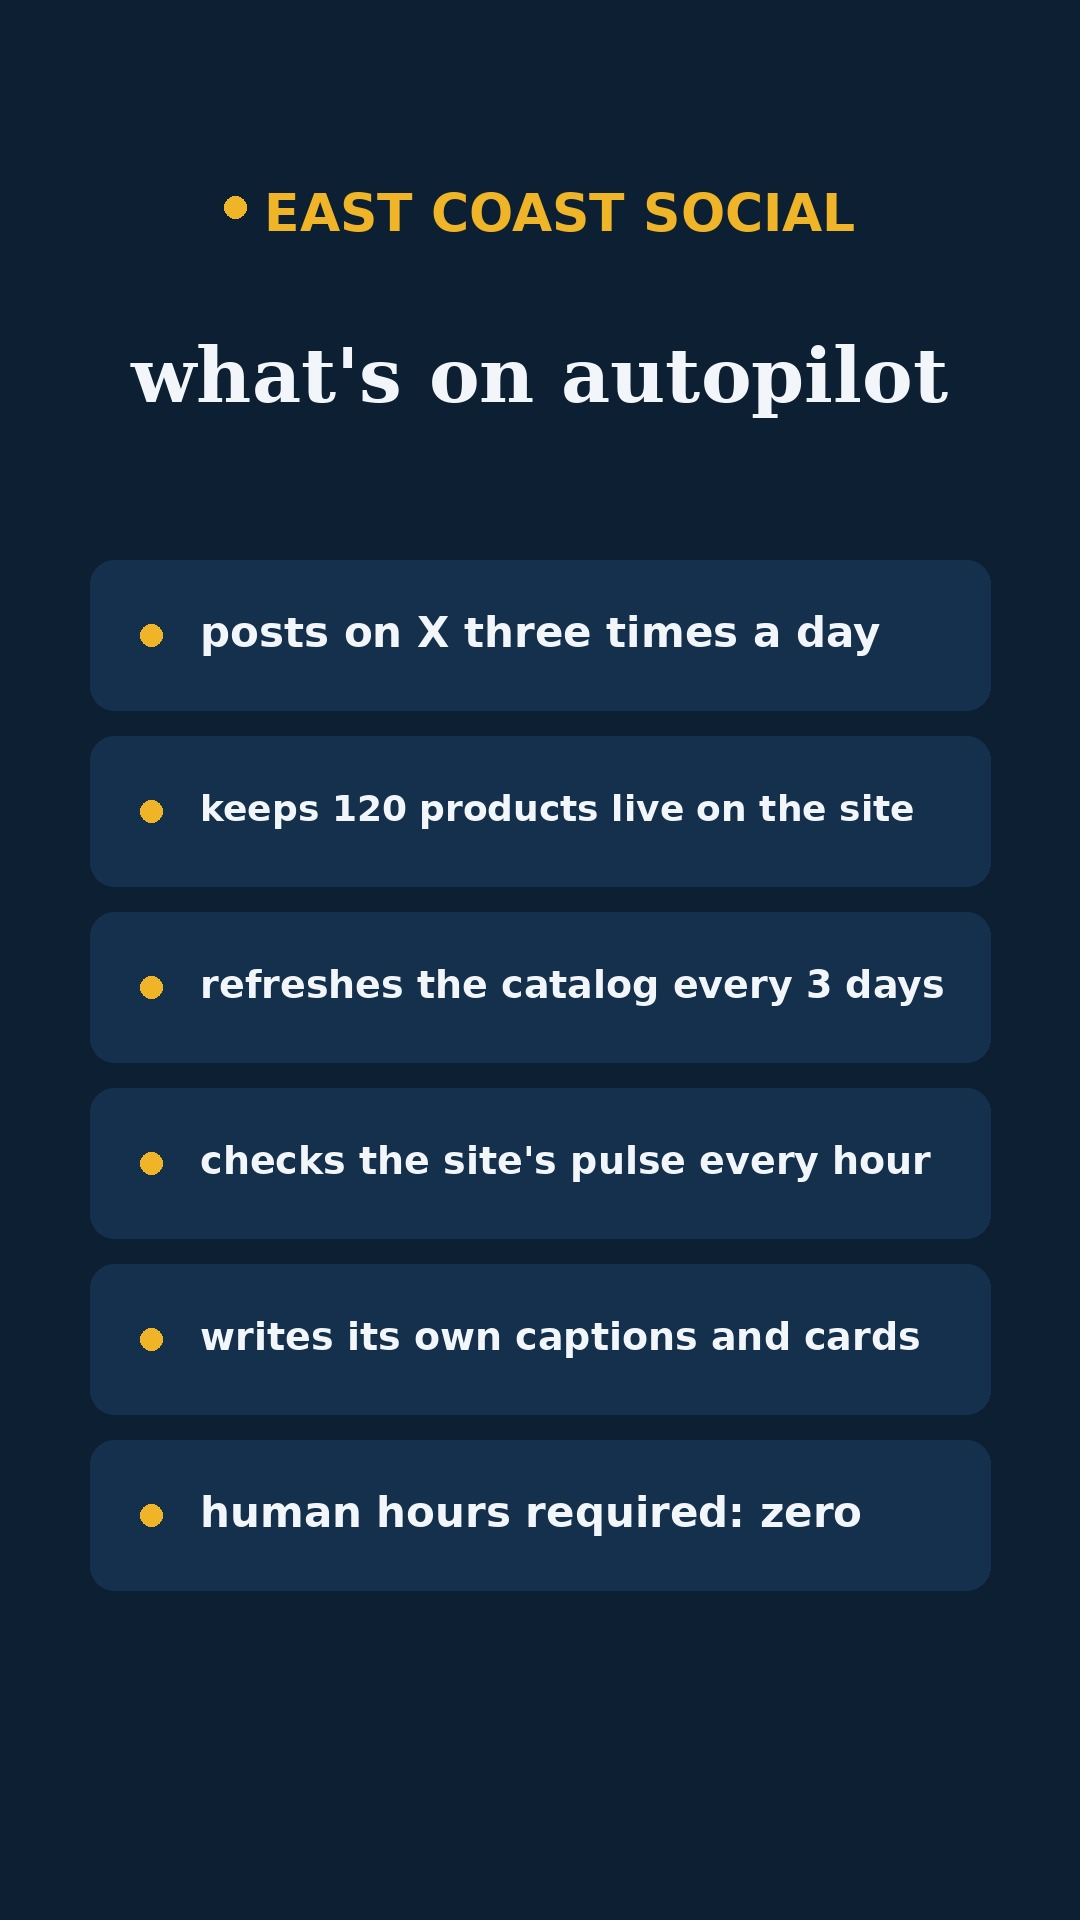
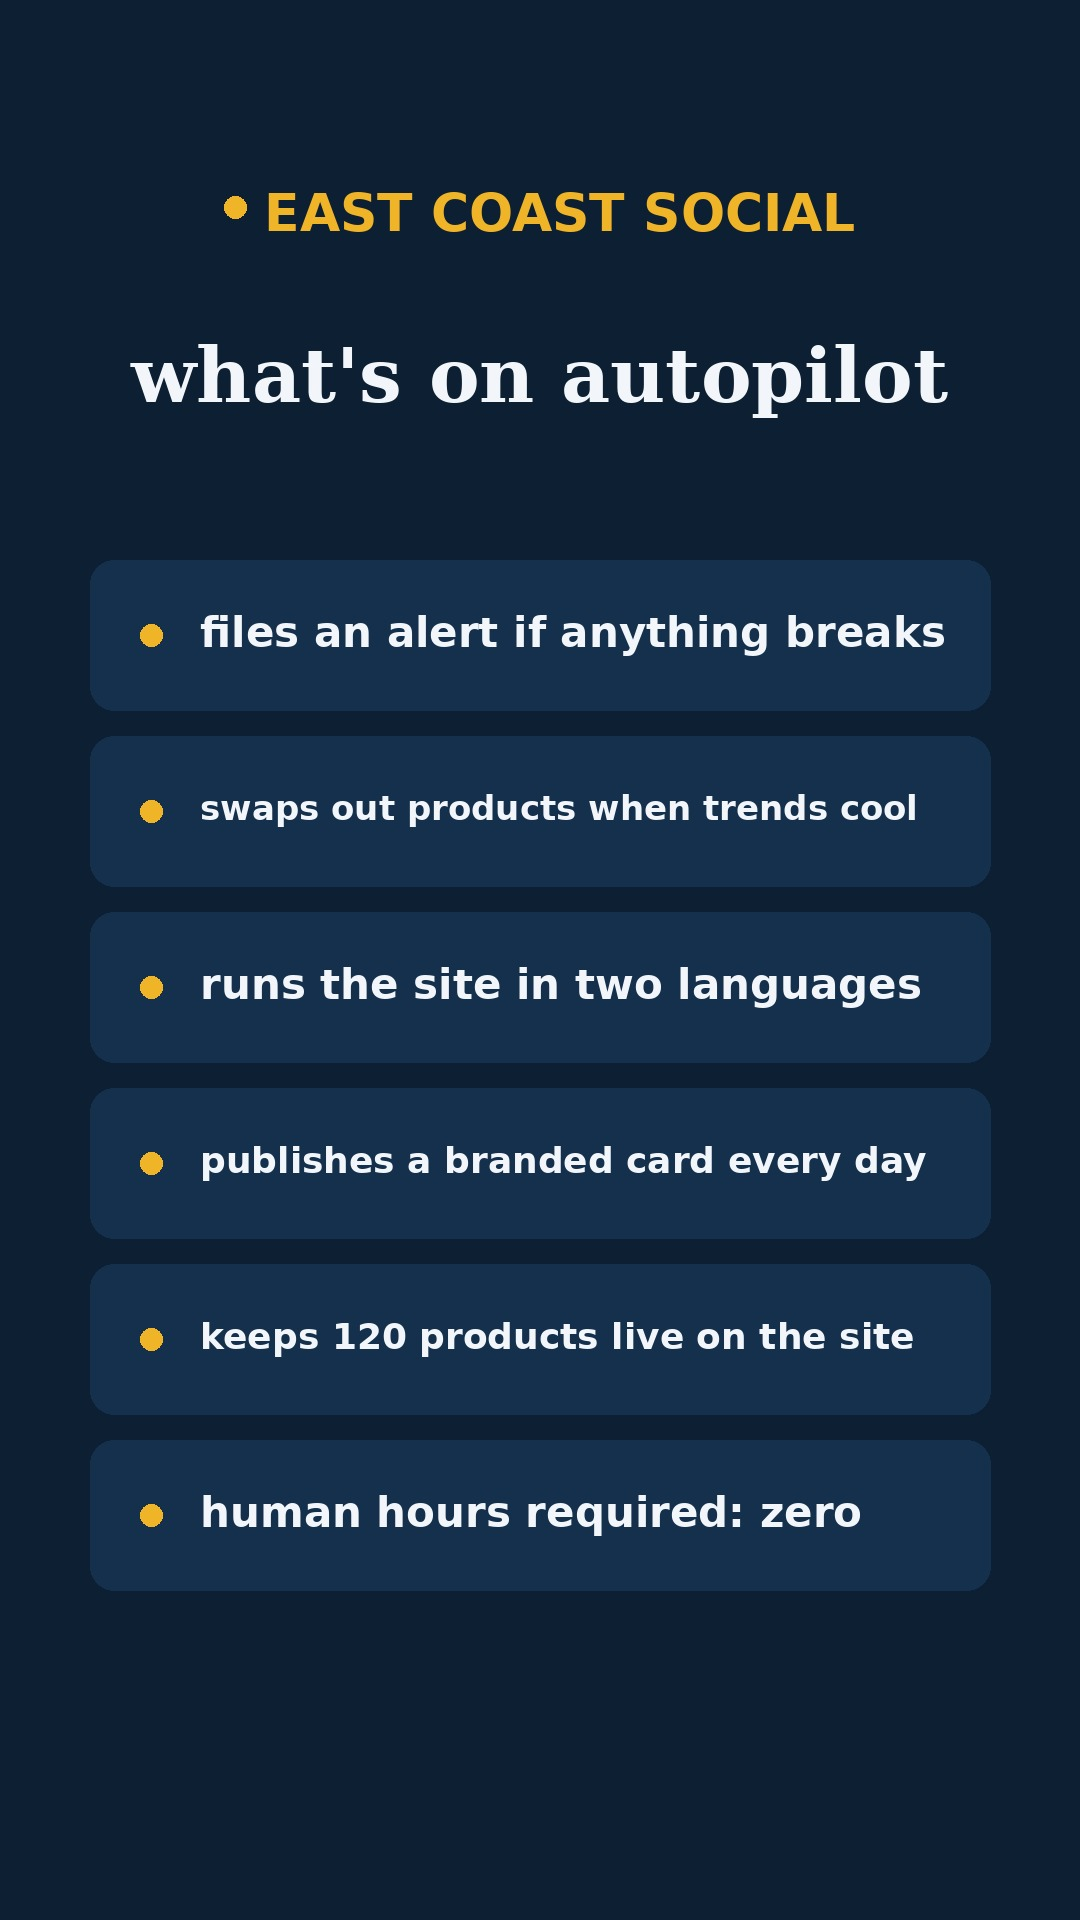
Agent TikTok slides: every claim true, whole checklist rotates daily
Slide 2's bullet pool still said 'posts on X three times a day' (X posting
is paused pending credits — the same claim was scrubbed from the website
on Aug 13) and 'checks the site's pulse every hour' (reports run every 3
hours). Replaced with a 9-claim all-true pool that rotates 5 rows daily so
a different line leads the slide each morning. Story 3 no longer claims
'180 posts a month'; story 4 says 'this morning' instead of 'every night'.
Regenerated today's pack.

Claude-Session: https://claude.ai/code/session_016WBRFe1MJn1UQSZgzashZd

diff --git a/make_daily_packs.py b/make_daily_packs.py
@@ -145,24 +145,24 @@ AGENT_STORIES = [
                     "businesses #automation #smallbusiness #ai #sidehustle"),
     },
     {
-        "hook": ("Zero employees.", "180 posts a month."),
+        "hook": ("Zero employees.", "A post every single day."),
         "sub": "that's the whole business model.",
         "hint": "the math →",
         "receipts": "the numbers",
         "cta": ("your shop could", "post this often"),
-        "caption": ("zero employees, 180 posts a month, and I never open the app \U0001F916 "
+        "caption": ("zero employees and this store still posts every single day \U0001F916 "
                     "the engine writes, designs and publishes on its own — building this for "
                     "local businesses now #smallbusiness #automation #ai #marketing"),
     },
     {
-        "hook": ("What if your shop", "posted while you slept?"),
-        "sub": "mine does. every single night.",
+        "hook": ("What if your shop", "posted before you woke?"),
+        "sub": "mine did. this morning. automatically.",
         "hint": "proof →",
-        "receipts": "what runs overnight",
+        "receipts": "what ran this morning",
         "cta": ("this is the service", "not just my store"),
-        "caption": ("what if your business page posted while you slept? \U0001F634 mine does — "
-                    "every night, automatically. now building the same thing for local shops "
-                    "#smallbusiness #automation #ai #localbusiness"),
+        "caption": ("what if your business page posted before you even woke up? \U0001F634 mine "
+                    "did this morning — automatically. now building the same thing for local "
+                    "shops #smallbusiness #automation #ai #localbusiness"),
     },
     {
         "hook": ("Most local pages", "went quiet in spring."),
@@ -271,22 +271,25 @@ def _lh_slide_receipts(product_count, refreshed):
     t_font = _fit(draw, title, 76, W - 2 * 90, loader=_serif)
     draw.text(((W - draw.textlength(title, font=t_font)) // 2, 330), title, font=t_font, fill=LH_INK)
 
-    # a larger pool of true claims, rotated so the slide reads fresh each day
-    every_day = [
-        "posts on X three times a day",
+    # a larger pool of TRUE claims, rotated so a different mix — and a
+    # different first line — leads the slide each day. Every line here must
+    # describe something the stack actually does today: no "3× a day on X"
+    # while X posting waits on credits, no "every hour" when the reports run
+    # every three. The website's proof copy already holds this bar (see the
+    # 2026-08-13 council); the slides hold it too.
+    claims = [
+        "publishes a branded card every day",
         f"keeps {product_count} products live on the site",
         "refreshes the catalog every 3 days",
-    ]
-    extras = [
-        "checks the site's pulse every hour",
+        "sends traffic reports every 3 hours",
         "writes its own captions and cards",
         "rebuilds the storefront on its own",
         "files an alert if anything breaks",
         "swaps out products when trends cool",
         "runs the site in two languages",
     ]
-    shift = date.today().toordinal() % len(extras)
-    rows = every_day + [extras[(shift + i) % len(extras)] for i in range(2)]
+    shift = date.today().toordinal() % len(claims)
+    rows = [claims[(shift + i) % len(claims)] for i in range(5)]
     rows.append("human hours required: zero")
     y = 560
     text_left, text_right_pad = 200, 40
